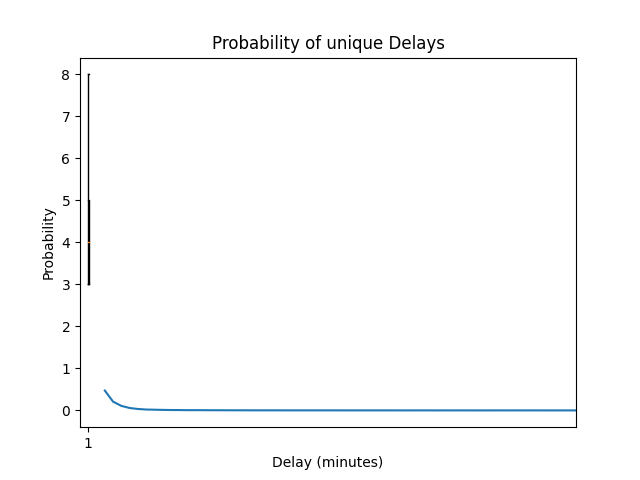
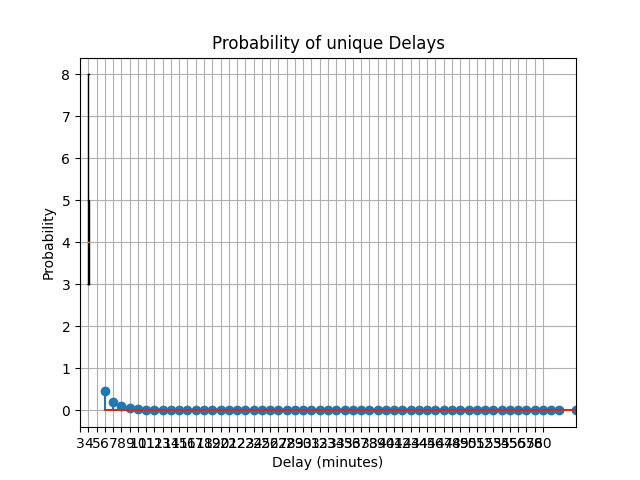
h.

Changed region(s): [[0.125, 0.125, 0.9062, 0.9375]]

diff --git a/flaskr/bl/processor.py b/flaskr/bl/processor.py
@@ -107,7 +107,7 @@ def geometric_distribution_60():
     unique_delays, counts = np.unique(delays, return_counts=True)
     prob = counts / total_delays
 
-    mask = unique_delays <= 60
+    mask = unique_delays <= 30
     unique_delays = unique_delays[mask]
     prob = prob[mask]
 
@@ -116,7 +116,7 @@ def geometric_distribution_60():
     plt.xlabel('Delay (minutes)')
     plt.ylabel('Probability')
     plt.xticks(range(len(unique_delays)), unique_delays)
-    plt.xlim(0, 60)
+    plt.xlim(0, 30)
     plt.savefig('./flaskr/static/delaydistribution.png')
 
 def boxplot_one():
